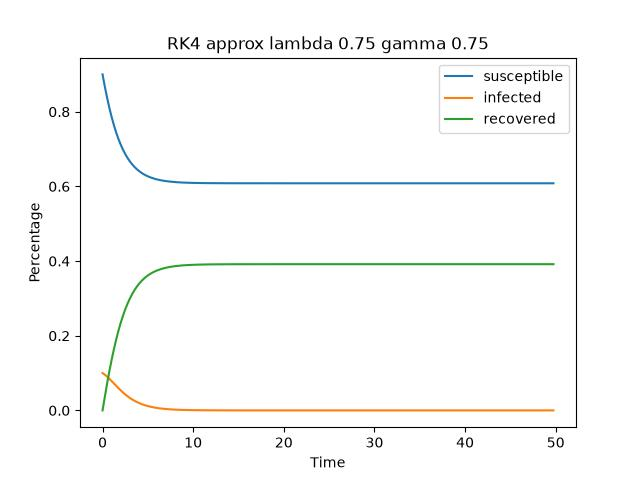
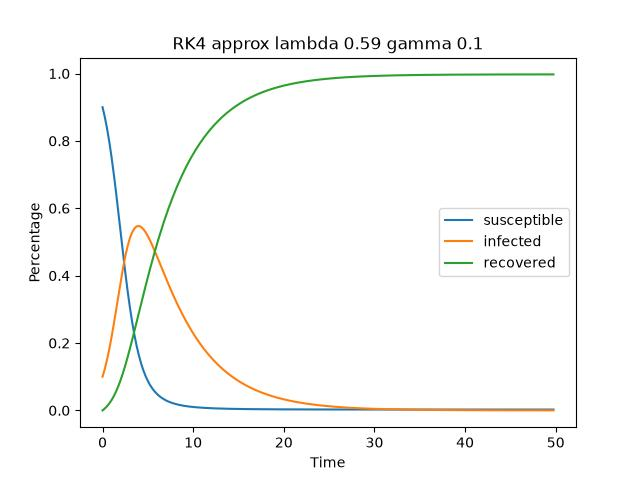
vector field 2, two algebraic expressions

diff --git a/ode_system.py b/ode_system.py
@@ -72,8 +72,8 @@ gamma = 0.1
 lamb = 0.59
 r0 = s0*lamb / gamma
 #
-#def sir(t,x,y,z):
-#    return -lamb*x*y, lamb*x*y - gamma*y,gamma*y
+def sir(t,x,y,z):
+    return -lamb*x*y, lamb*x*y - gamma*y,gamma*y
 #
 #
 #
@@ -210,8 +210,8 @@ r0 = s0*lamb / gamma
 ## adding a recovered back into susceptible population at rate delta
 #
 delta = 0.1
-#def sir_f(t,x,y,z,delta,lamb,gamma):
-#    return -lamb*x*y+delta*x*z, lamb*x*y - gamma*y,gamma*y-delta*x*z
+def sir_f(t,x,y,z,delta,lamb,gamma):
+    return -lamb*x*y+delta*x*z, lamb*x*y - gamma*y,gamma*y-delta*x*z
 #
 #def taylor_system_6(f,delta,gamma,lamb,s,i,r,a,b,n):
 #    """Second Order Approximation for 3-dim ode with feedback"""
@@ -259,37 +259,37 @@ delta = 0.1
 #            plt.show()
 #            plt.close()
 #
-#def rk_system(f,s,i,r,a,b,n):
-#    t = a
-#    h = (b - a) / n
-#    points = np.zeros([4,n])
-#    for k in range(n):
-#        points[0,k] = t
-#        points[1,k] = s
-#        points[2,k] = i
-#        points[3,k] = r
-#        K1 = f(t,s,i,r)
-#        K2 = f(t+0.5*h,s+0.5*h*K1[0],i+0.5*h*K1[1],r+0.5*h*K1[2])
-#        K3 = f(t+0.5*h,s+0.5*h*K2[0],i+0.5*h*K2[1],r+0.5*h*K2[2])
-#        K4 = f(t+h, s + h*K3[0], i + h*K3[1], r + h*K3[2])
-#        t += h
-#        s += h / 6 *(K1[0]+2*K2[0]+2*K3[0]+K4[0])
-#        i += h / 6 *(K1[1]+2*K2[1]+2*K3[1]+K4[1])
-#        r += h / 6 *(K1[2]+2*K2[2]+2*K3[2]+K4[2])
-#    return points
-#
-#t,s,i,r = rk_system(sir,0.9,0.1,0,0,100,200)
-#
-#plt.plot(0.5*t,s, label='susceptible')
-#plt.plot(0.5*t,i, label='infected')
-#plt.plot(0.5*t,r, label='recovered')
-#plt.xlabel('Time')
-#plt.ylabel('Percentage')
-#plt.title(f"RK4 approx lambda {lamb} gamma {gamma}")
-#plt.legend()
-#plt.savefig('odes/sir_system_rk.jpg')
-#plt.show()
-#plt.close()
+def rk_system(f,s,i,r,a,b,n):
+    t = a
+    h = (b - a) / n
+    points = np.zeros([4,n])
+    for k in range(n):
+        points[0,k] = t
+        points[1,k] = s
+        points[2,k] = i
+        points[3,k] = r
+        K1 = f(t,s,i,r)
+        K2 = f(t+0.5*h,s+0.5*h*K1[0],i+0.5*h*K1[1],r+0.5*h*K1[2])
+        K3 = f(t+0.5*h,s+0.5*h*K2[0],i+0.5*h*K2[1],r+0.5*h*K2[2])
+        K4 = f(t+h, s + h*K3[0], i + h*K3[1], r + h*K3[2])
+        t += h
+        s += h / 6 *(K1[0]+2*K2[0]+2*K3[0]+K4[0])
+        i += h / 6 *(K1[1]+2*K2[1]+2*K3[1]+K4[1])
+        r += h / 6 *(K1[2]+2*K2[2]+2*K3[2]+K4[2])
+    return points
+
+t,s,i,r = rk_system(sir,0.9,0.1,0,0,100,200)
+
+plt.plot(0.5*t,s, label='susceptible')
+plt.plot(0.5*t,i, label='infected')
+plt.plot(0.5*t,r, label='recovered')
+plt.xlabel('Time')
+plt.ylabel('Percentage')
+plt.title(f"RK4 approx lambda {lamb} gamma {gamma}")
+plt.legend()
+plt.savefig('odes/sir_system_rk.jpg')
+plt.show()
+plt.close()
 #
 #### competition system
 ##def f_competition(t,x,y,a,b,m,n):

diff --git a/vector_field_2.py b/vector_field_2.py
@@ -1,0 +1,73 @@
+import numpy as np
+import matplotlib.pyplot as plt
+import itertools
+
+expr_0 = '2*y'
+expr_1 = '-y**2'
+expr_2 = 't*y'
+expr_3 = '1- t**2 - y**2'
+expr_4 = '1 + y**2'
+expr_5 = 't**2+ y**2'
+expr_6 = 't-y'
+expr_7 = '-t-y'
+
+#def f_1(t,y):
+#    return eval(expr_0)
+#
+#def f_2(t,y):
+#    return eval(expr_1)
+#
+#def f_3(t,y):
+#    return eval(expr_2)
+#
+#def f_4(t,y):
+#    return eval(expr_3)
+#
+#def f_5(t,y):
+#    return eval(expr_4)
+#
+#def f_6(t,y):
+#    return eval(expr_5)
+#
+#def f_7(t,y):
+#    return eval(expr_6)
+#def f_8(t,y):
+#    return eval(expr_7)
+#def f_9(t,x,y):
+#    return eval(expr_7),eval(expr_4)
+
+def evaluator(t,x,y,expr_1,expr_2):
+    return eval(expr_1),eval(expr_2)
+
+#funcs = [f_1,f_2,f_3,f_4,f_5,f_6,f_7,f_8]
+exprs = [expr_0,expr_1,expr_2,expr_3,expr_4,expr_5,expr_6,expr_7]
+exprs_pairs = itertools.combinations(exprs,2)
+
+
+test = np.linspace(-10,10,25)
+I, J = np.meshgrid(test,test)
+#step = 0.1
+#fig, ax = plt.subplots(3,2)
+#U,V = f_9(I,I,J)
+#length = np.sqrt(U**2 + V**2)
+#print(U)
+#print(J)
+#plt.figure()
+#q = plt.quiver(I,J, U / length, V / length, scale=25, angles ='xy')
+#plt.quiverkey(q, X=0.1,Y=1.1,U=1,label='Length of 1',labelpos='E')
+#plt.title(f" Field of x = {expr_7} and \n y = {expr_4}")
+#plt.savefig(f'fields/field{9}.jpg')
+#plt.show()
+for index,exprs in enumerate(exprs_pairs):
+    plt.figure()
+    U,V = evaluator(I,I,J,exprs[0],exprs[1])
+    #q = ax[index].quiver(i,j,i+0.5,0.5*func(i,j)+j)
+    length = np.sqrt(U**2 + V**2)
+    q = plt.quiver(I,J,U / length,V / length,scale=25,angles='xy')
+    plt.quiverkey(q, X=0.3,Y=1.1,U=1,label='Length of 1',labelpos='E')
+    #ax[index].quiverkey(q, X=0.3,Y=0.3,U=1,label='Test',labelpos='E')
+    plt.title(f"Equation u_1 = {exprs[0]} \n u_2 = {exprs[1]} ")
+    plt.savefig(f'fields/field_2_{index}.jpg')
+
+    plt.show()
+        

diff --git a/vector_field.py b/vector_field.py
@@ -1,6 +1,6 @@
 import numpy as np
 import matplotlib.pyplot as plt
-from functools import partial
+
 
 expr_0 = '2*y'
 expr_1 = '-y**2'
@@ -9,7 +9,7 @@ expr_3 = '1- t**2 - y**2'
 expr_4 = '1 + y**2'
 expr_5 = 't**2+ y**2'
 expr_6 = 't-y'
-
+expr_7 = '-t-y'
 
 def f_1(t,y):
     return eval(expr_0)
@@ -31,16 +31,29 @@ def f_6(t,y):
 
 def f_7(t,y):
     return eval(expr_6)
+def f_8(t,y):
+    return eval(expr_7)
+def f_9(t,x,y):
+    return eval(expr_7),eval(expr_4)
 
-funcs = [f_1,f_2,f_3,f_4,f_5,f_6,f_7]
-exprs = [expr_0,expr_1,expr_2,expr_3,expr_4,expr_5,expr_6]
+funcs = [f_1,f_2,f_3,f_4,f_5,f_6,f_7,f_8]
+exprs = [expr_0,expr_1,expr_2,expr_3,expr_4,expr_5,expr_6,expr_7]
 
 
 test = np.linspace(-10,10,25)
 I, J = np.meshgrid(test,test)
 #step = 0.1
 #fig, ax = plt.subplots(3,2)
-
+U,V = f_9(I,I,J)
+length = np.sqrt(U**2 + V**2)
+#print(U)
+#print(J)
+#plt.figure()
+#q = plt.quiver(I,J, U / length, V / length, scale=25, angles ='xy')
+#plt.quiverkey(q, X=0.1,Y=1.1,U=1,label='Length of 1',labelpos='E')
+#plt.title(f" Field of x = {expr_7} and \n y = {expr_4}")
+#plt.savefig(f'fields/field{9}.jpg')
+#plt.show()
 for index,(func,expr) in enumerate(zip(funcs,exprs)):
     plt.figure()
     U = np.ones_like(I)

diff --git a/roots.py b/roots.py
@@ -53,17 +53,17 @@ def eval_bisection(f,a,b,n_steps):
     
 
 def f(x):
-    return x**2-3
+    return x**2-x+1
 
 
-#a_0 = f(0)
-#print("a_0 ", a_0)
-#a_1 = f(-a_0)-a_0
-#print("a_1 ",a_1)
-#a_2 = f(a_1)-a_1
-#print("a_2 ", a_2)
-#a_3 = f(-a_2)-a_2
-#print("a_3 ", a_3)
+a_0 = f(0)
+print("a_0 ", a_0)
+a_1 = f(-a_0)-a_0
+print("a_1 ",a_1)
+a_2 = f(a_1)-a_1
+print("a_2 ", a_2)
+a_3 = f(-a_2)-a_2
+print("a_3 ", a_3)
 
 #eval_bisection(f,-0.5,5,100)
 
@@ -141,16 +141,22 @@ def newton_rd_example(system,iv,n_step):
     x = iv.copy()
     for i in range(n_step):
         points[:,i] += x
-        jac = jacobian(system, x)
+        jac = jacobian(system, x)  
         jac_matrix = jac.df
+        kappa = np.linalg.cond(jac_matrix)
+        if kappa > 1000: 
+            print("Ill conditioned system")
+            print(jac_matrix)
+            return i,0
         h = np.linalg.solve(jac_matrix,system(x))
         #print(h)
         x -= h
     return x, points
 
 #print(iv)
-iv, points = newton_rd_example(system,iv,15)
+iv, points = newton_rd_example(system,iv,10)
 
+print(iv)
 ax = plt.figure().add_subplot(projection='3d')
 ax.plot(points[:,0],points[:,1],points[:,2])
 ax.set_xlabel('t')
